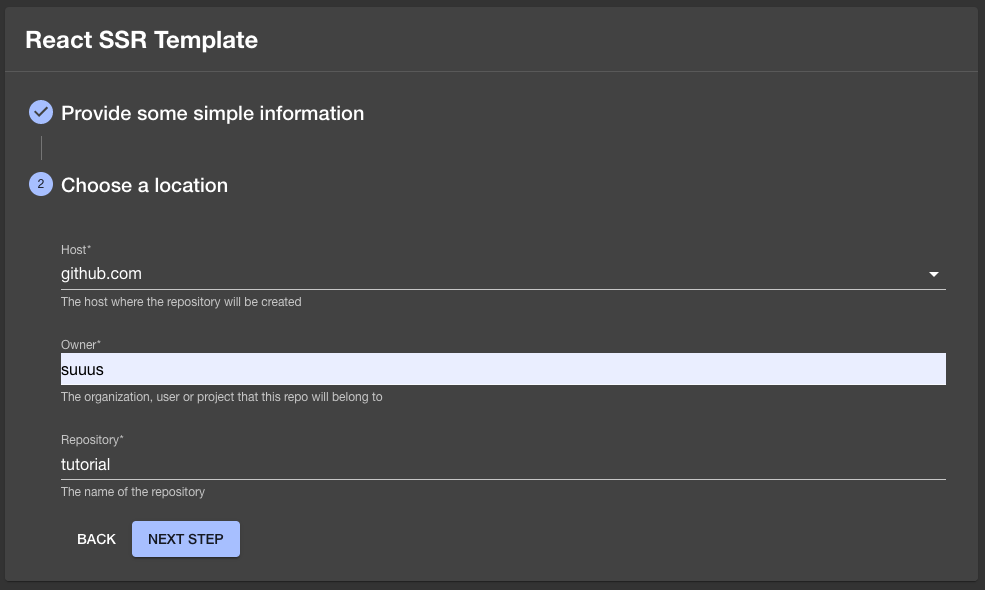
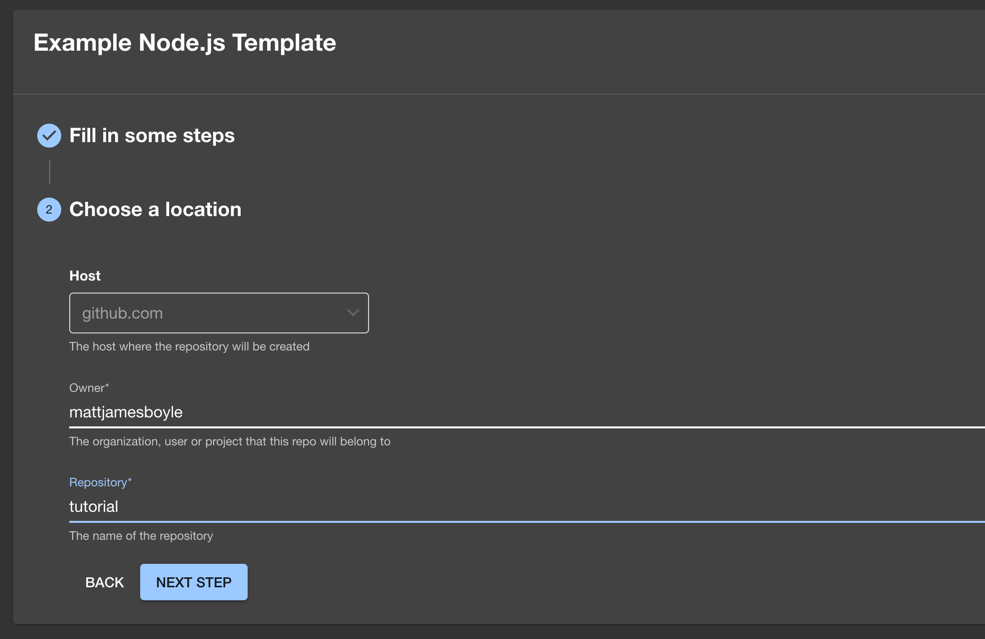
Deploying to gh-pages from @ backstage/backstage@779567b431f7c9cae9b197f4ba598af2e9e78b4f 🚀

diff --git a/docs/getting-started/configuration.html b/docs/getting-started/configuration.html
@@ -280,29 +280,26 @@ able to click it and see the details</li>
 </ul>
 <h2><a class="anchor" aria-hidden="true" id="create-a-new-component-using-a-software-template"></a><a href="#create-a-new-component-using-a-software-template" aria-hidden="true" class="hash-link"><svg class="hash-link-icon" aria-hidden="true" height="16" version="1.1" viewBox="0 0 16 16" width="16"><path fill-rule="evenodd" d="M4 9h1v1H4c-1.5 0-3-1.69-3-3.5S2.55 3 4 3h4c1.45 0 3 1.69 3 3.5 0 1.41-.91 2.72-2 3.25V8.59c.58-.45 1-1.27 1-2.09C10 5.22 8.98 4 8 4H4c-.98 0-2 1.22-2 2.5S3 9 4 9zm9-3h-1v1h1c1 0 2 1.22 2 2.5S13.98 12 13 12H9c-.98 0-2-1.22-2-2.5 0-.83.42-1.64 1-2.09V6.25c-1.09.53-2 1.84-2 3.25C6 11.31 7.55 13 9 13h4c1.45 0 3-1.69 3-3.5S14.5 6 13 6z"></path></svg></a>Create a new component using a software template</h2>
 <ul>
-<li>Go to <code>create</code> and choose to create a website with the <code>React SSR Template</code></li>
-<li>Type in a name, let's use <code>tutorial</code></li>
-<li>Select the group <code>team-a</code> which will own this new website, and go to the next
-step</li>
+<li>Go to <code>create</code> and choose to create a website with the <code>Example Node.js Template</code></li>
+<li>Type in a name, let's use <code>tutorial</code> and click <code>Next Step</code></li>
 </ul>
 <p align='center'>
-  <img src='../assets/getting-started/b-scaffold-1.png' alt='Software template deployment input screen asking for a name, the group owning this, and a description' />
+  <img src='../assets/getting-started/b-scaffold-1.png' alt='Software template deployment input screen asking for a name' />
 </p>
 <ul>
-<li>For the location, we're going to use the default</li>
-<li>As owner, type your GitHub username</li>
-<li>For the repository name, type <code>tutorial</code>. Go to the next step</li>
+<li>You should see the following screen:</li>
 </ul>
 <p align='center'>
   <img src='../assets/getting-started/b-scaffold-2.png' alt='Software template deployment input screen asking for the GitHub username, and name of the new repo to create' />
 </p>
 <ul>
-<li>Review the details of this new service, and press <code>Create</code> if you want to
-deploy it like this.
-<ul>
-<li>You can follow along with the progress, and as soon as every step is
-finished, you can take a look at your new service</li>
-</ul></li>
+<li><p>For host, it should default to github.com</p></li>
+<li><p>As owner, type your GitHub username</p></li>
+<li><p>For the repository name, type <code>tutorial</code>. Go to the next step</p></li>
+<li><p>Review the details of this new service, and press <code>Create</code> if you want to
+deploy it like this.</p></li>
+<li><p>You can follow along with the progress, and as soon as every step is
+finished, you can take a look at your new service</p></li>
 </ul>
 <p>Achievement unlocked. You've set up an installation of the core Backstage App,
 made it persistent, and configured it so you are now able to use software

diff --git a/docs/getting-started/configuration/index.html b/docs/getting-started/configuration/index.html
@@ -280,29 +280,26 @@ able to click it and see the details</li>
 </ul>
 <h2><a class="anchor" aria-hidden="true" id="create-a-new-component-using-a-software-template"></a><a href="#create-a-new-component-using-a-software-template" aria-hidden="true" class="hash-link"><svg class="hash-link-icon" aria-hidden="true" height="16" version="1.1" viewBox="0 0 16 16" width="16"><path fill-rule="evenodd" d="M4 9h1v1H4c-1.5 0-3-1.69-3-3.5S2.55 3 4 3h4c1.45 0 3 1.69 3 3.5 0 1.41-.91 2.72-2 3.25V8.59c.58-.45 1-1.27 1-2.09C10 5.22 8.98 4 8 4H4c-.98 0-2 1.22-2 2.5S3 9 4 9zm9-3h-1v1h1c1 0 2 1.22 2 2.5S13.98 12 13 12H9c-.98 0-2-1.22-2-2.5 0-.83.42-1.64 1-2.09V6.25c-1.09.53-2 1.84-2 3.25C6 11.31 7.55 13 9 13h4c1.45 0 3-1.69 3-3.5S14.5 6 13 6z"></path></svg></a>Create a new component using a software template</h2>
 <ul>
-<li>Go to <code>create</code> and choose to create a website with the <code>React SSR Template</code></li>
-<li>Type in a name, let's use <code>tutorial</code></li>
-<li>Select the group <code>team-a</code> which will own this new website, and go to the next
-step</li>
+<li>Go to <code>create</code> and choose to create a website with the <code>Example Node.js Template</code></li>
+<li>Type in a name, let's use <code>tutorial</code> and click <code>Next Step</code></li>
 </ul>
 <p align='center'>
-  <img src='../assets/getting-started/b-scaffold-1.png' alt='Software template deployment input screen asking for a name, the group owning this, and a description' />
+  <img src='../assets/getting-started/b-scaffold-1.png' alt='Software template deployment input screen asking for a name' />
 </p>
 <ul>
-<li>For the location, we're going to use the default</li>
-<li>As owner, type your GitHub username</li>
-<li>For the repository name, type <code>tutorial</code>. Go to the next step</li>
+<li>You should see the following screen:</li>
 </ul>
 <p align='center'>
   <img src='../assets/getting-started/b-scaffold-2.png' alt='Software template deployment input screen asking for the GitHub username, and name of the new repo to create' />
 </p>
 <ul>
-<li>Review the details of this new service, and press <code>Create</code> if you want to
-deploy it like this.
-<ul>
-<li>You can follow along with the progress, and as soon as every step is
-finished, you can take a look at your new service</li>
-</ul></li>
+<li><p>For host, it should default to github.com</p></li>
+<li><p>As owner, type your GitHub username</p></li>
+<li><p>For the repository name, type <code>tutorial</code>. Go to the next step</p></li>
+<li><p>Review the details of this new service, and press <code>Create</code> if you want to
+deploy it like this.</p></li>
+<li><p>You can follow along with the progress, and as soon as every step is
+finished, you can take a look at your new service</p></li>
 </ul>
 <p>Achievement unlocked. You've set up an installation of the core Backstage App,
 made it persistent, and configured it so you are now able to use software
